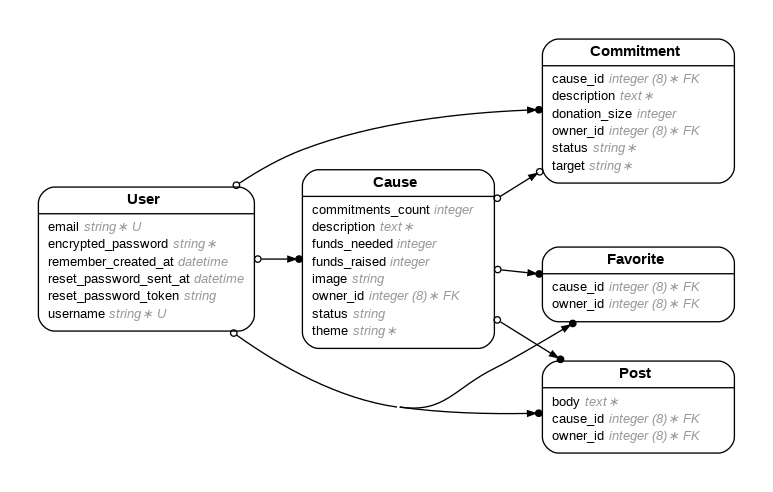
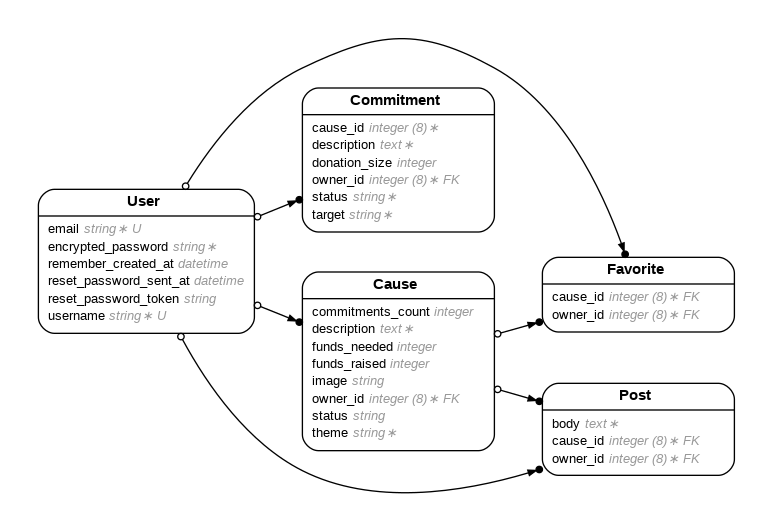
Sample data

diff --git a/db/migrate/20210604185410_create_commitments.rb b/db/migrate/20210604185410_create_commitments.rb
@@ -7,7 +7,7 @@ class CreateCommitments < ActiveRecord::Migration[6.1]
       #t.date :start_date
       #t.date :end_date
       t.string :status
-      t.references :cause, null: false, foreign_key: true
+      t.belongs_to :cause, null: false, foreign_key: true, index: true
       t.belongs_to :owner, null: false, foreign_key: { to_table: :users }, index: true
 
       t.timestamps

diff --git a/db/migrate/20210604184217_create_causes.rb b/db/migrate/20210604184217_create_causes.rb
@@ -9,7 +9,7 @@ class CreateCauses < ActiveRecord::Migration[6.1]
       t.string :status
       t.integer :funds_needed, default: 0
       t.integer :funds_raised, default: 0
-      t.integer :commitments_count, default: 0
+      #t.integer :commitments_count, default: 0
       t.belongs_to :owner, null: false, foreign_key: { to_table: :users }, index: true
 
       t.timestamps

diff --git a/app/models/commitment.rb b/app/models/commitment.rb
@@ -23,8 +23,8 @@
 #  fk_rails_...  (owner_id => users.id)
 #
 class Commitment < ApplicationRecord
-  belongs_to :causes
   belongs_to :owner, class_name: "User"
+  belongs_to :cause
 
   validates :target, presence: true
   validates :status, presence: true
